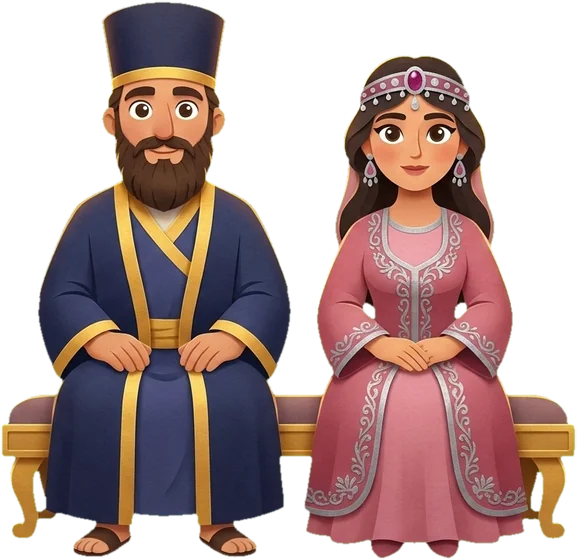
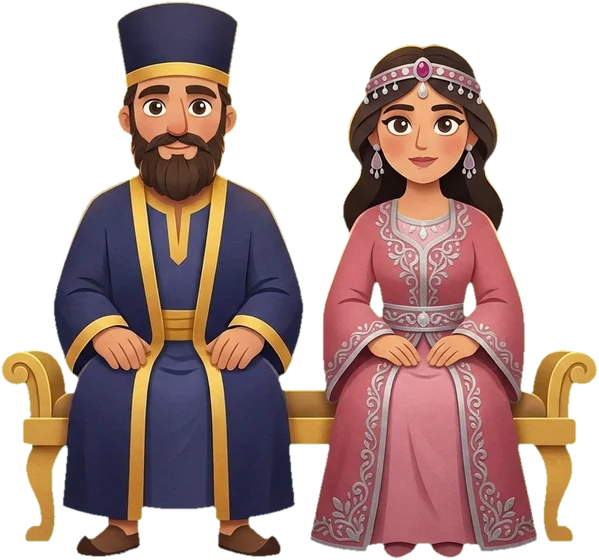
Daniel page 2: symmetric throne room, throne facing the room
Background regenerated straight-on with the dais centre-back and the carpet
up the middle, so the throne no longer reads as angled into a corner.
Courtiers regenerated seated naturally and placed at the officials' scale
either side of the carpet, inside the phone-safe zone. The pointing
official now points at the throne and the scroll official is mirrored to
face him. Scene 399 KB.

diff --git a/src/scenes/daniel.tsx b/src/scenes/daniel.tsx
@@ -103,55 +103,56 @@ export function TheTrap() {
   return (
     <>
       <Backdrop src={trapBg} />
-      <SoftShadow x={712} y={392} rx={100} ry={14} opacity={0.4} />
+      <SoftShadow x={500} y={372} rx={100} ry={12} opacity={0.4} />
       <Layer
         src={trapKing}
         w={L["king-throne"].w}
         h={L["king-throne"].h}
-        x={712}
-        y={392}
+        x={500}
+        y={372}
         scale={0.37}
         className="a-breathe-slow"
       />
       {/* courtiers seated on the floor either side of the carpet, facing the room */}
-      <SoftShadow x={195} y={535} rx={90} ry={11} opacity={0.35} />
+      <SoftShadow x={215} y={560} rx={120} ry={13} opacity={0.35} />
       <Layer
         src={trapCourtiersLeft}
         w={L["courtiers-left"].w}
         h={L["courtiers-left"].h}
-        x={195}
-        y={535}
-        scale={0.29}
+        x={215}
+        y={560}
+        scale={0.38}
         className="a-breathe-slow"
         delay={1.1}
       />
-      <SoftShadow x={815} y={535} rx={90} ry={11} opacity={0.35} />
+      <SoftShadow x={785} y={560} rx={110} ry={13} opacity={0.35} />
       <Layer
         src={trapCourtiersRight}
         w={L["courtiers-right"].w}
         h={L["courtiers-right"].h}
-        x={815}
-        y={535}
-        scale={0.29}
+        x={785}
+        y={560}
+        scale={0.38}
         className="a-breathe-slow"
         delay={2.3}
       />
-      <SoftShadow x={355} y={612} rx={80} ry={14} opacity={0.4} />
+      <SoftShadow x={590} y={612} rx={80} ry={14} opacity={0.4} />
       <Layer
         src={trapOfficialScroll}
         w={L["official-scroll"].w}
         h={L["official-scroll"].h}
-        x={355}
+        x={590}
         y={612}
         scale={0.42}
+        flip
         className="a-breathe"
       />
-      <SoftShadow x={505} y={608} rx={90} ry={14} opacity={0.4} />
+      <SoftShadow x={440} y={608} rx={90} ry={14} opacity={0.4} />
       <Layer
         src={trapOfficialPoint}
         w={L["official-point"].w}
         h={L["official-point"].h}
-        x={505}
+        x={440}
         y={608}
         scale={0.42}
         className="a-breathe-slow"

diff --git a/src/data/stories/daniel.ts b/src/data/stories/daniel.ts
@@ -58,7 +58,7 @@ export const daniel: Story = {
       hotspots: [
         {
           id: "scroll",
-          x: 38,
+          x: 54,
           y: 64,
           size: 22,
           label: "the new law",
@@ -69,7 +69,7 @@ export const daniel: Story = {
         },
         {
           id: "king",
-          x: 71,
+          x: 50,
           y: 42,
           size: 20,
           label: "King Darius",

diff --git a/docs/evidence/2026-09-18-trap-palace/record.md b/docs/evidence/2026-09-18-trap-palace/record.md
@@ -100,3 +100,34 @@ king's throne facing the room, not to the sides."
 - Browser, fresh context on this build (`index-BlhP43lk.js`): six layers,
   scroll hotspot tapped, both pairs fully inside the phone frame;
   `trap-court-phone.png`.
+
+## Round 4: throne facing the room, courtiers at size, seated naturally
+
+User: "The throne is still to the angle and not facing the room. Also, the
+courtiers are seated awkwardly." Then: "The courtiers also look tiny sitting
+down."
+
+- Cause: the round-1 background put the dais and carpet on a diagonal into
+  the right corner, so the frontal throne cutout still read as angled, and
+  straight-on benches sat oddly on that diagonal floor. Background
+  regenerated symmetric and straight-on: dais centre-back facing the
+  viewer, carpet straight up the middle, matching column rows, three
+  windows behind the dais. Raw of the diagonal version kept locally as
+  `bg-v2-diagonal.png`. New `bg.webp` 120 KB.
+- Courtiers regenerated "sitting naturally, knees bent, feet flat, seen at
+  eye level" (`cutouts-round-4.png`); `courtiers-left` 80 KB (rounded, at
+  the guideline), `courtiers-right` 60 KB. Scene 399 KB.
+- Generation was blocked for ~10 minutes: `generativelanguage.googleapis.com`
+  and `www.googleapis.com` timed out on IPv4 and IPv6 through the machine's
+  VPN route (gateway 10.5.0.1) while `google.com`, `oauth2.googleapis.com`
+  and GitHub answered. A background loop retried once a minute and
+  succeeded on attempt 3 at 18:15.
+- Layout: king centred at (500, 372) on the platform (first pass at y 392
+  sat him on the steps); courtiers at (215, 560) and (785, 560) scale 0.38,
+  the officials' scale is 0.42, so a seated courtier is about 65 % of a
+  standing official; the pointing official at (440, 608) points right at
+  the throne, the scroll official mirrored at (590, 612) faces him, so the
+  two conspire over the scroll in front of the king. Both pairs inside the
+  phone-safe zone (x 90–910). Hotspots: king 50 % / 42 %, scroll 54 % / 64 %.
+- Checks: `check:motion` 27 clean; full-size render `trap-after-court.png`;
+  browser fresh context `trap-court-phone.png`; hook on commit.

diff --git a/handoff.md b/handoff.md
@@ -12,8 +12,11 @@ secret scan or audit). The latest increment closes that gap with local gates.
 
 ## 2. Completed Work
 
-Latest: **Daniel page 2: grander throne and seated courtiers** (round 2 on the
-same page: `king-throne` regenerated, two new seated pairs `courtiers-left` /
+Latest: **Daniel page 2 rebuilt symmetric** (round 4: background regenerated
+straight-on with the dais centre-back so the throne faces the room; courtiers
+regenerated seated naturally and placed at 0.38 either side of the carpet;
+officials face the king). Also **Daniel page 5** family scaled to Daniel
+(`52225be`). Rounds 2–3 on page 2: `king-throne` regenerated, two new seated pairs `courtiers-left` /
 `courtiers-right` on the floor either side of the carpet, facing the room (round 3;
 round 2 had them on the dais, turned inward); a green robe got chroma-keyed once, regenerated
 in navy, README rule added; scene 415 KB). Round 1 was the **palace background
